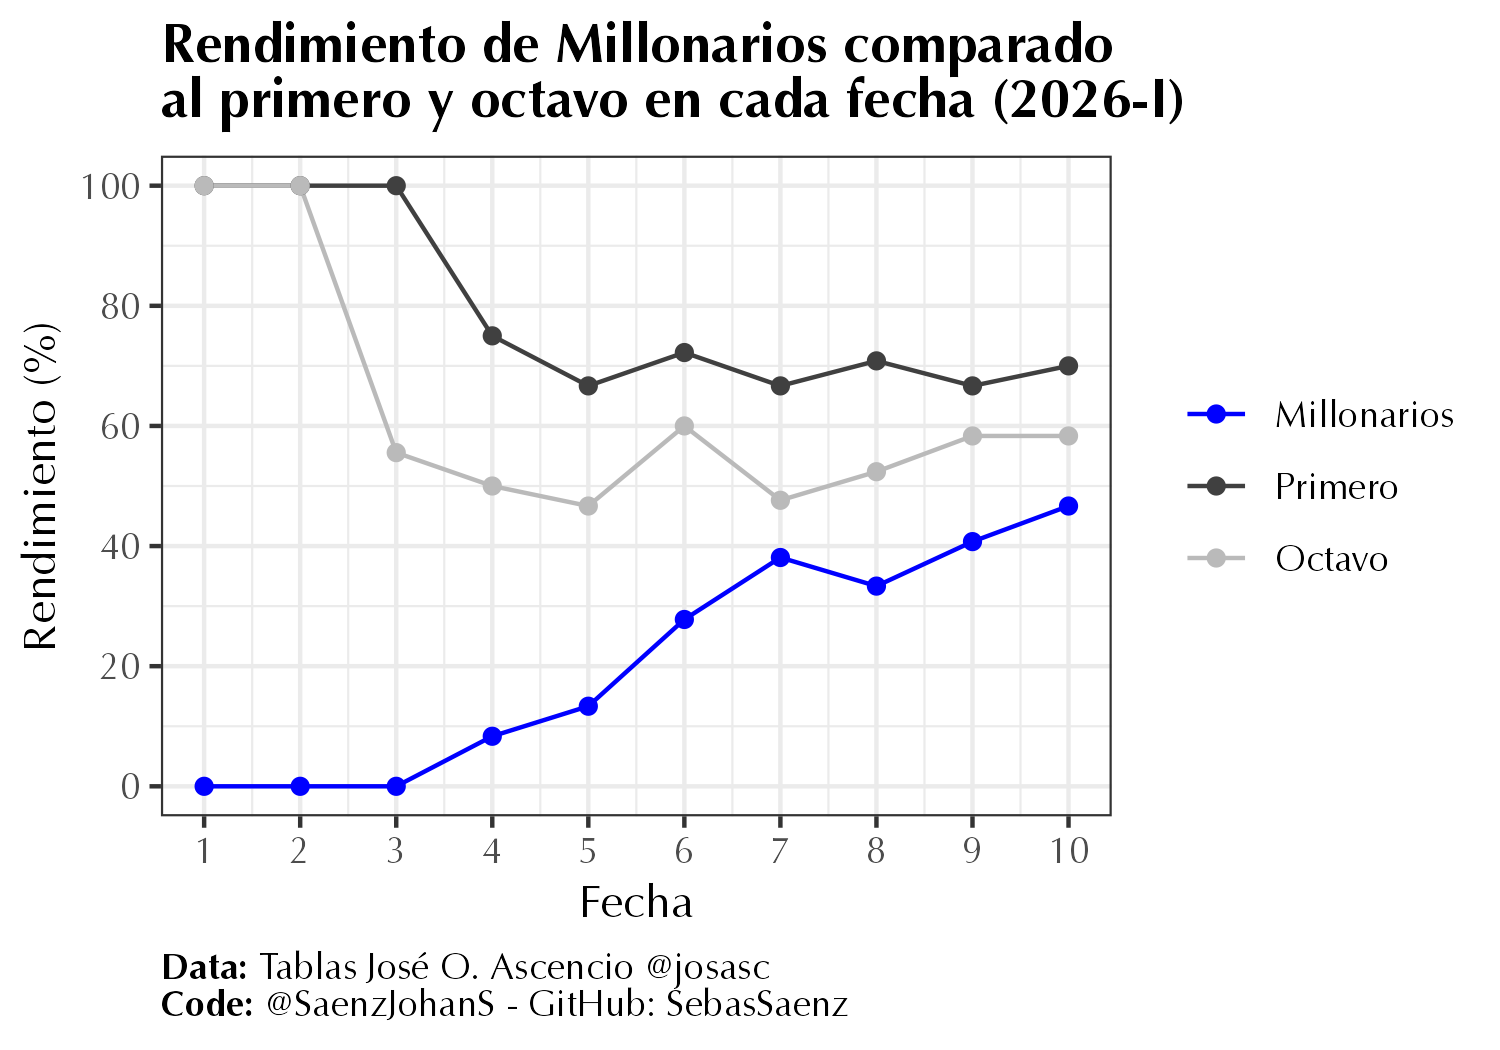
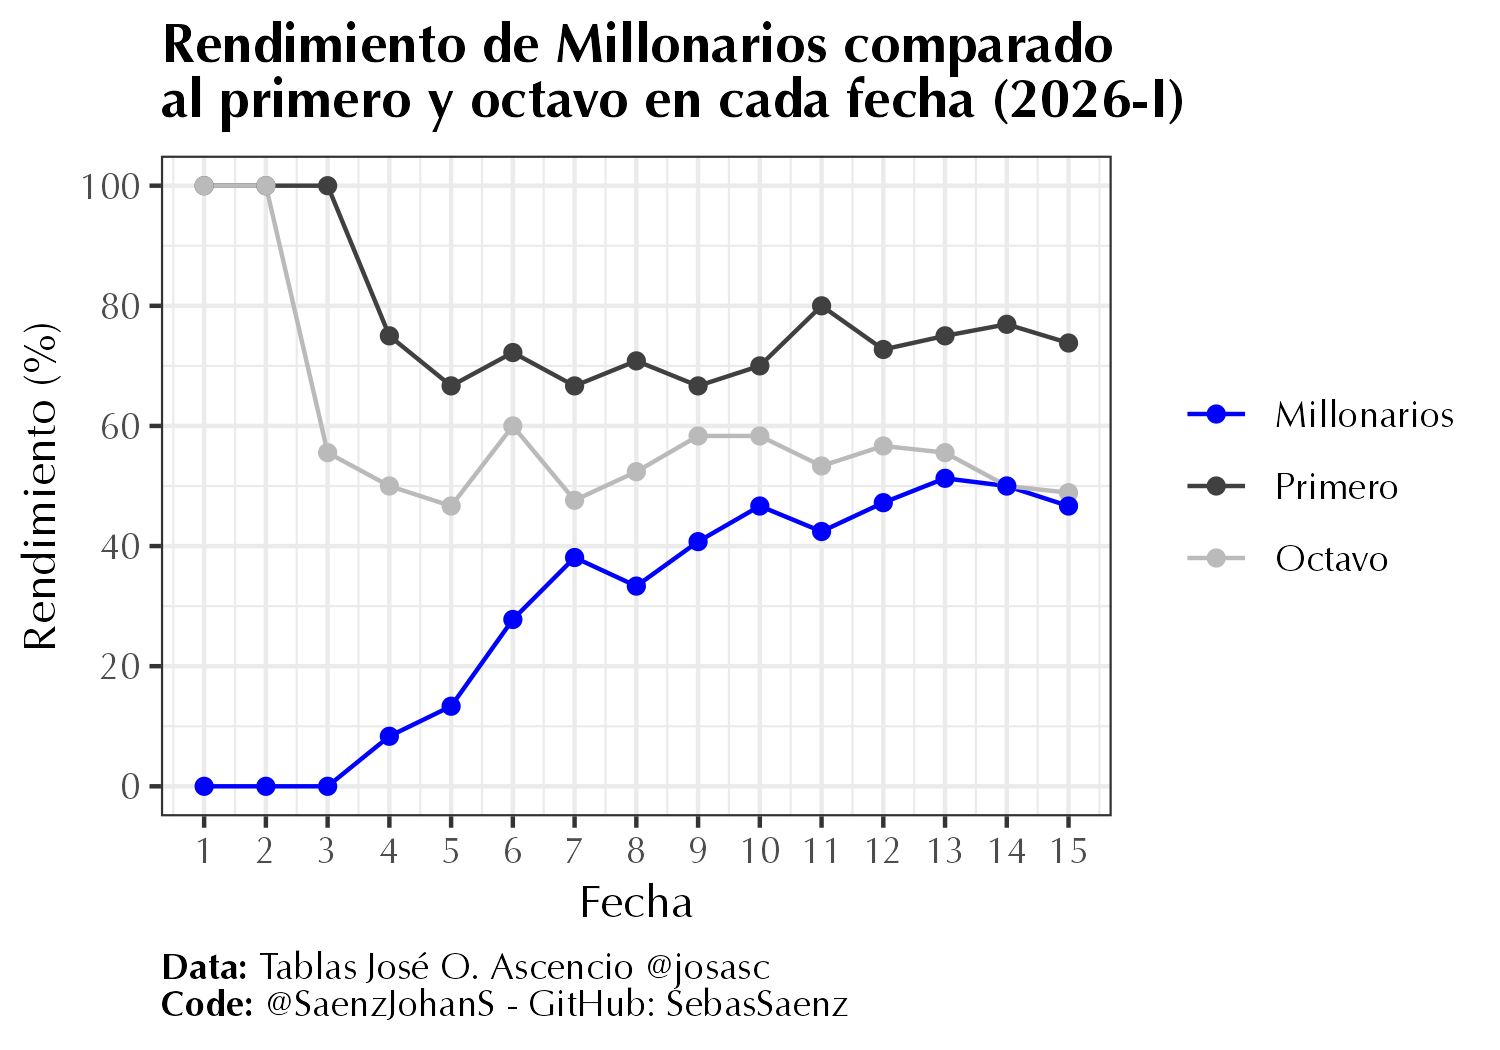
update Millos readme

diff --git a/docs/index.html b/docs/index.html
@@ -28,8 +28,8 @@
 <body>
 <div class="wrap">
   <div class="plotbox">
-    <div class="plotly html-widget html-fill-item" id="htmlwidget-7a8363d0920dba4d01c7" style="width:100%;height:400px;"></div>
-    <script type="application/json" data-for="htmlwidget-7a8363d0920dba4d01c7">{"x":{"data":[{"x":[1,2,3,4,5,6,7,8,9,10],"y":[0,0,0,8.3333333333333321,13.333333333333334,27.777777777777779,38.095238095238095,33.333333333333329,40.74074074074074,46.666666666666664],"text":["Equipo: Millonarios<br>Fecha: 1<br>Rendimiento: 0%","Equipo: Millonarios<br>Fecha: 2<br>Rendimiento: 0%","Equipo: Millonarios<br>Fecha: 3<br>Rendimiento: 0%","Equipo: Millonarios<br>Fecha: 4<br>Rendimiento: 8.3%","Equipo: Millonarios<br>Fecha: 5<br>Rendimiento: 13.3%","Equipo: Millonarios<br>Fecha: 6<br>Rendimiento: 27.8%","Equipo: Millonarios<br>Fecha: 7<br>Rendimiento: 38.1%","Equipo: Millonarios<br>Fecha: 8<br>Rendimiento: 33.3%","Equipo: Millonarios<br>Fecha: 9<br>Rendimiento: 40.7%","Equipo: Millonarios<br>Fecha: 10<br>Rendimiento: 46.7%"],"type":"scatter","mode":"lines+markers","line":{"width":1.8897637795275593,"color":"rgba(0,0,255,1)","dash":"solid"},"hoveron":"points","name":"Millonarios","legendgroup":"Millonarios","showlegend":true,"xaxis":"x","yaxis":"y","hoverinfo":"text","marker":{"autocolorscale":false,"color":"rgba(0,0,255,1)","opacity":1,"size":5.6692913385826778,"symbol":"circle","line":{"width":1.8897637795275593,"color":"rgba(0,0,255,1)"}},"frame":null},{"x":[1,2,3,4,5,6,7,8,9,10],"y":[100,100,100,75,66.666666666666657,72.222222222222214,66.666666666666657,70.833333333333343,66.666666666666657,70],"text":["Equipo: Nacional<br>Fecha: 1<br>Rendimiento: 100%","Equipo: Tolima<br>Fecha: 2<br>Rendimiento: 100%","Equipo: Pasto<br>Fecha: 3<br>Rendimiento: 100%","Equipo: Pasto<br>Fecha: 4<br>Rendimiento: 75%","Equipo: Internacional de Bogota<br>Fecha: 5<br>Rendimiento: 66.7%","Equipo: Internacional de Bogota<br>Fecha: 6<br>Rendimiento: 72.2%","Equipo: Internacional de Bogota<br>Fecha: 7<br>Rendimiento: 66.7%","Equipo: Internacional de Bogota<br>Fecha: 8<br>Rendimiento: 70.8%","Equipo: Internacional de Bogota<br>Fecha: 9<br>Rendimiento: 66.7%","Equipo: Pasto<br>Fecha: 10<br>Rendimiento: 70%"],"type":"scatter","mode":"lines+markers","line":{"width":1.8897637795275593,"color":"rgba(64,64,64,1)","dash":"solid"},"hoveron":"points","name":"Primero","legendgroup":"Primero","showlegend":true,"xaxis":"x","yaxis":"y","hoverinfo":"text","marker":{"autocolorscale":false,"color":"rgba(64,64,64,1)","opacity":1,"size":5.6692913385826778,"symbol":"circle","line":{"width":1.8897637795275593,"color":"rgba(64,64,64,1)"}},"frame":null},{"x":[1,2,3,4,5,6,7,8,9,10],"y":[100,100,55.555555555555557,50,46.666666666666664,60,47.619047619047613,52.380952380952387,58.333333333333336,58.333333333333336],"text":["Equipo: Jaguares<br>Fecha: 1<br>Rendimiento: 100%","Equipo: Nacional<br>Fecha: 2<br>Rendimiento: 100%","Equipo: Fortaleza<br>Fecha: 3<br>Rendimiento: 55.6%","Equipo: Once Caldas<br>Fecha: 4<br>Rendimiento: 50%","Equipo: Cali<br>Fecha: 5<br>Rendimiento: 46.7%","Equipo: Junior<br>Fecha: 6<br>Rendimiento: 60%","Equipo: Once Caldas<br>Fecha: 7<br>Rendimiento: 47.6%","Equipo: Bucaramanga<br>Fecha: 8<br>Rendimiento: 52.4%","Equipo: Bucaramanga<br>Fecha: 9<br>Rendimiento: 58.3%","Equipo: Bucaramanga<br>Fecha: 10<br>Rendimiento: 58.3%"],"type":"scatter","mode":"lines+markers","line":{"width":1.8897637795275593,"color":"rgba(186,186,186,1)","dash":"solid"},"hoveron":"points","name":"Octavo","legendgroup":"Octavo","showlegend":true,"xaxis":"x","yaxis":"y","hoverinfo":"text","marker":{"autocolorscale":false,"color":"rgba(186,186,186,1)","opacity":1,"size":5.6692913385826778,"symbol":"circle","line":{"width":1.8897637795275593,"color":"rgba(186,186,186,1)"}},"frame":null}],"layout":{"margin":{"t":120,"r":10,"b":120,"l":55},"plot_bgcolor":"rgba(255,255,255,1)","paper_bgcolor":"rgba(255,255,255,1)","font":{"color":"rgba(0,0,0,1)","family":"optima","size":14.611872146118724},"title":{"text":"Rendimiento de Millonarios comparado<br>al primero y octavo en cada fecha (2026-I)","font":{"color":"rgba(0,0,0,1)","family":"optima","size":28},"x":0.5,"xref":"paper","xanchor":"center"},"xaxis":{"domain":[0,1],"automargin":true,"type":"linear","autorange":false,"range":[0.55000000000000004,10.449999999999999],"tickmode":"array","ticktext":["1","2","3","4","5","6","7","8","9","10"],"tickvals":[1,2,3,4,5,6,7,7.9999999999999991,9,10],"categoryorder":"array","categoryarray":["1","2","3","4","5","6","7","8","9","10"],"nticks":null,"ticks":"outside","tickcolor":"rgba(51,51,51,1)","ticklen":3.6529680365296811,"tickwidth":0,"showticklabels":true,"tickfont":{"color":"rgba(77,77,77,1)","family":"optima","size":11.68949771689498},"tickangle":-0,"showline":false,"linecolor":null,"linewidth":0,"showgrid":true,"gridcolor":"rgba(235,235,235,1)","gridwidth":0,"zeroline":false,"anchor":"y","title":{"text":"Fecha","font":{"color":"rgba(0,0,0,1)","family":"optima","size":14.611872146118724}},"hoverformat":".2f"},"yaxis":{"domain":[0,1],"automargin":true,"type":"linear","autorange":false,"range":[-5,105],"tickmode":"array","ticktext":["0","20","40","60","80","100"],"tickvals":[0,20,40,60,80,100],"categoryorder":"array","categoryarray":["0","20","40","60","80","100"],"nticks":null,"ticks":"outside","tickcolor":"rgba(51,51,51,1)","ticklen":3.6529680365296811,"tickwidth":0,"showticklabels":true,"tickfont":{"color":"rgba(77,77,77,1)","family":"optima","size":11.68949771689498},"tickangle":-0,"showline":false,"linecolor":null,"linewidth":0,"showgrid":true,"gridcolor":"rgba(235,235,235,1)","gridwidth":0,"zeroline":false,"anchor":"x","title":{"text":"Rendimiento (%)","font":{"color":"rgba(0,0,0,1)","family":"optima","size":14.611872146118724}},"hoverformat":".2f"},"shapes":[{"type":"rect","fillcolor":"rgba(255,255,255,1)","line":{"color":"rgba(51,51,51,1)","width":0,"linetype":"solid"},"yref":"paper","xref":"paper","layer":"below","x0":0,"x1":1,"y0":0,"y1":1}],"showlegend":true,"legend":{"bgcolor":"rgba(255,255,255,1)","bordercolor":"transparent","borderwidth":0,"font":{"color":"rgba(0,0,0,1)","family":"optima","size":12},"title":{"text":[],"font":{"color":null,"family":null,"size":0}}},"hovermode":"closest","barmode":"relative","height":520,"annotations":[{"text":"<b>Data:<\/b> Tablas José O. Ascencio @josasc<br><b>Code:<\/b> @SaenzJohanS - GitHub: SebasSaenz","x":0,"y":-0.29999999999999999,"xref":"paper","yref":"paper","showarrow":false,"xanchor":"left","align":"left","font":{"size":13,"family":"optima"}}]},"config":{"doubleClick":"reset","modeBarButtonsToAdd":["hoverclosest","hovercompare"],"showSendToCloud":false,"responsive":true},"source":"A","attrs":{"228d5ed14b31":{"x":{},"y":{},"colour":{},"text":{},"type":"scatter"},"228d7e9fae98":{"x":{},"y":{},"colour":{},"text":{}}},"cur_data":"228d5ed14b31","visdat":{"228d5ed14b31":["function (y) ","x"],"228d7e9fae98":["function (y) ","x"]},"highlight":{"on":"plotly_click","persistent":false,"dynamic":false,"selectize":false,"opacityDim":0.20000000000000001,"selected":{"opacity":1},"debounce":0},"shinyEvents":["plotly_hover","plotly_click","plotly_selected","plotly_relayout","plotly_brushed","plotly_brushing","plotly_clickannotation","plotly_doubleclick","plotly_deselect","plotly_afterplot","plotly_sunburstclick"],"base_url":"https://plot.ly"},"evals":[],"jsHooks":[]}</script>
+    <div class="plotly html-widget html-fill-item" id="htmlwidget-713fe44a5385dfddfaff" style="width:100%;height:400px;"></div>
+    <script type="application/json" data-for="htmlwidget-713fe44a5385dfddfaff">{"x":{"data":[{"x":[1,2,3,4,5,6,7,8,9,10,11,12,13,14,15],"y":[0,0,0,8.3333333333333321,13.333333333333334,27.777777777777779,38.095238095238095,33.333333333333329,40.74074074074074,46.666666666666664,42.424242424242422,47.222222222222221,51.282051282051277,50,46.666666666666664],"text":["Equipo: Millonarios<br>Fecha: 1<br>Rendimiento: 0%","Equipo: Millonarios<br>Fecha: 2<br>Rendimiento: 0%","Equipo: Millonarios<br>Fecha: 3<br>Rendimiento: 0%","Equipo: Millonarios<br>Fecha: 4<br>Rendimiento: 8.3%","Equipo: Millonarios<br>Fecha: 5<br>Rendimiento: 13.3%","Equipo: Millonarios<br>Fecha: 6<br>Rendimiento: 27.8%","Equipo: Millonarios<br>Fecha: 7<br>Rendimiento: 38.1%","Equipo: Millonarios<br>Fecha: 8<br>Rendimiento: 33.3%","Equipo: Millonarios<br>Fecha: 9<br>Rendimiento: 40.7%","Equipo: Millonarios<br>Fecha: 10<br>Rendimiento: 46.7%","Equipo: Millonarios<br>Fecha: 11<br>Rendimiento: 42.4%","Equipo: Millonarios<br>Fecha: 12<br>Rendimiento: 47.2%","Equipo: Millonarios<br>Fecha: 13<br>Rendimiento: 51.3%","Equipo: Millonarios<br>Fecha: 14<br>Rendimiento: 50%","Equipo: Millonarios<br>Fecha: 15<br>Rendimiento: 46.7%"],"type":"scatter","mode":"lines+markers","line":{"width":1.8897637795275593,"color":"rgba(0,0,255,1)","dash":"solid"},"hoveron":"points","name":"Millonarios","legendgroup":"Millonarios","showlegend":true,"xaxis":"x","yaxis":"y","hoverinfo":"text","marker":{"autocolorscale":false,"color":"rgba(0,0,255,1)","opacity":1,"size":5.6692913385826778,"symbol":"circle","line":{"width":1.8897637795275593,"color":"rgba(0,0,255,1)"}},"frame":null},{"x":[1,2,3,4,5,6,7,8,9,10,11,12,13,14,15],"y":[100,100,100,75,66.666666666666657,72.222222222222214,66.666666666666657,70.833333333333343,66.666666666666657,70,80,72.727272727272734,75,76.923076923076934,73.80952380952381],"text":["Equipo: Nacional<br>Fecha: 1<br>Rendimiento: 100%","Equipo: Tolima<br>Fecha: 2<br>Rendimiento: 100%","Equipo: Pasto<br>Fecha: 3<br>Rendimiento: 100%","Equipo: Pasto<br>Fecha: 4<br>Rendimiento: 75%","Equipo: Internacional de Bogota<br>Fecha: 5<br>Rendimiento: 66.7%","Equipo: Internacional de Bogota<br>Fecha: 6<br>Rendimiento: 72.2%","Equipo: Internacional de Bogota<br>Fecha: 7<br>Rendimiento: 66.7%","Equipo: Internacional de Bogota<br>Fecha: 8<br>Rendimiento: 70.8%","Equipo: Internacional de Bogota<br>Fecha: 9<br>Rendimiento: 66.7%","Equipo: Pasto<br>Fecha: 10<br>Rendimiento: 70%","Equipo: Nacional<br>Fecha: 11<br>Rendimiento: 80%","Equipo: Nacional<br>Fecha: 12<br>Rendimiento: 72.7%","Equipo: Nacional<br>Fecha: 13<br>Rendimiento: 75%","Equipo: Nacional<br>Fecha: 14<br>Rendimiento: 76.9%","Equipo: Nacional<br>Fecha: 15<br>Rendimiento: 73.8%"],"type":"scatter","mode":"lines+markers","line":{"width":1.8897637795275593,"color":"rgba(64,64,64,1)","dash":"solid"},"hoveron":"points","name":"Primero","legendgroup":"Primero","showlegend":true,"xaxis":"x","yaxis":"y","hoverinfo":"text","marker":{"autocolorscale":false,"color":"rgba(64,64,64,1)","opacity":1,"size":5.6692913385826778,"symbol":"circle","line":{"width":1.8897637795275593,"color":"rgba(64,64,64,1)"}},"frame":null},{"x":[1,2,3,4,5,6,7,8,9,10,11,12,13,14,15],"y":[100,100,55.555555555555557,50,46.666666666666664,60,47.619047619047613,52.380952380952387,58.333333333333336,58.333333333333336,53.333333333333336,56.666666666666664,55.555555555555557,50,48.888888888888886],"text":["Equipo: Jaguares<br>Fecha: 1<br>Rendimiento: 100%","Equipo: Nacional<br>Fecha: 2<br>Rendimiento: 100%","Equipo: Fortaleza<br>Fecha: 3<br>Rendimiento: 55.6%","Equipo: Once Caldas<br>Fecha: 4<br>Rendimiento: 50%","Equipo: Cali<br>Fecha: 5<br>Rendimiento: 46.7%","Equipo: Junior<br>Fecha: 6<br>Rendimiento: 60%","Equipo: Once Caldas<br>Fecha: 7<br>Rendimiento: 47.6%","Equipo: Bucaramanga<br>Fecha: 8<br>Rendimiento: 52.4%","Equipo: Bucaramanga<br>Fecha: 9<br>Rendimiento: 58.3%","Equipo: Bucaramanga<br>Fecha: 10<br>Rendimiento: 58.3%","Equipo: Tolima<br>Fecha: 11<br>Rendimiento: 53.3%","Equipo: America<br>Fecha: 12<br>Rendimiento: 56.7%","Equipo: Tolima<br>Fecha: 13<br>Rendimiento: 55.6%","Equipo: Internacional de Bogota<br>Fecha: 14<br>Rendimiento: 50%","Equipo: Internacional de Bogota<br>Fecha: 15<br>Rendimiento: 48.9%"],"type":"scatter","mode":"lines+markers","line":{"width":1.8897637795275593,"color":"rgba(186,186,186,1)","dash":"solid"},"hoveron":"points","name":"Octavo","legendgroup":"Octavo","showlegend":true,"xaxis":"x","yaxis":"y","hoverinfo":"text","marker":{"autocolorscale":false,"color":"rgba(186,186,186,1)","opacity":1,"size":5.6692913385826778,"symbol":"circle","line":{"width":1.8897637795275593,"color":"rgba(186,186,186,1)"}},"frame":null}],"layout":{"margin":{"t":120,"r":10,"b":120,"l":55},"plot_bgcolor":"rgba(255,255,255,1)","paper_bgcolor":"rgba(255,255,255,1)","font":{"color":"rgba(0,0,0,1)","family":"optima","size":14.611872146118724},"title":{"text":"Rendimiento de Millonarios comparado<br>al primero y octavo en cada fecha (2026-I)","font":{"color":"rgba(0,0,0,1)","family":"optima","size":28},"x":0.5,"xref":"paper","xanchor":"center"},"xaxis":{"domain":[0,1],"automargin":true,"type":"linear","autorange":false,"range":[0.29999999999999993,15.699999999999999],"tickmode":"array","ticktext":["1","2","3","4","5","6","7","8","9","10","11","12","13","14","15"],"tickvals":[1,2,3,4,5,6,7,8.0000000000000018,9,10,11,12,13,14,15],"categoryorder":"array","categoryarray":["1","2","3","4","5","6","7","8","9","10","11","12","13","14","15"],"nticks":null,"ticks":"outside","tickcolor":"rgba(51,51,51,1)","ticklen":3.6529680365296811,"tickwidth":0,"showticklabels":true,"tickfont":{"color":"rgba(77,77,77,1)","family":"optima","size":11.689497716894984},"tickangle":-0,"showline":false,"linecolor":null,"linewidth":0,"showgrid":true,"gridcolor":"rgba(235,235,235,1)","gridwidth":0,"zeroline":false,"anchor":"y","title":{"text":"Fecha","font":{"color":"rgba(0,0,0,1)","family":"optima","size":14.611872146118724}},"hoverformat":".2f"},"yaxis":{"domain":[0,1],"automargin":true,"type":"linear","autorange":false,"range":[-5,105],"tickmode":"array","ticktext":["0","20","40","60","80","100"],"tickvals":[0,20,40,60,80,100],"categoryorder":"array","categoryarray":["0","20","40","60","80","100"],"nticks":null,"ticks":"outside","tickcolor":"rgba(51,51,51,1)","ticklen":3.6529680365296811,"tickwidth":0,"showticklabels":true,"tickfont":{"color":"rgba(77,77,77,1)","family":"optima","size":11.68949771689498},"tickangle":-0,"showline":false,"linecolor":null,"linewidth":0,"showgrid":true,"gridcolor":"rgba(235,235,235,1)","gridwidth":0,"zeroline":false,"anchor":"x","title":{"text":"Rendimiento (%)","font":{"color":"rgba(0,0,0,1)","family":"optima","size":14.611872146118724}},"hoverformat":".2f"},"shapes":[{"type":"rect","fillcolor":"rgba(255,255,255,1)","line":{"color":"rgba(51,51,51,1)","width":0,"linetype":"solid"},"yref":"paper","xref":"paper","layer":"below","x0":0,"x1":1,"y0":0,"y1":1}],"showlegend":true,"legend":{"bgcolor":"rgba(255,255,255,1)","bordercolor":"transparent","borderwidth":0,"font":{"color":"rgba(0,0,0,1)","family":"optima","size":12},"title":{"text":[],"font":{"color":null,"family":null,"size":0}}},"hovermode":"closest","barmode":"relative","height":520,"annotations":[{"text":"<b>Data:<\/b> Tablas José O. Ascencio @josasc<br><b>Code:<\/b> @SaenzJohanS - GitHub: SebasSaenz","x":0,"y":-0.29999999999999999,"xref":"paper","yref":"paper","showarrow":false,"xanchor":"left","align":"left","font":{"size":13,"family":"optima"}}]},"config":{"doubleClick":"reset","modeBarButtonsToAdd":["hoverclosest","hovercompare"],"showSendToCloud":false,"responsive":true},"source":"A","attrs":{"aa8077e98025":{"x":{},"y":{},"colour":{},"text":{},"type":"scatter"},"aa802dc3aa4":{"x":{},"y":{},"colour":{},"text":{}}},"cur_data":"aa8077e98025","visdat":{"aa8077e98025":["function (y) ","x"],"aa802dc3aa4":["function (y) ","x"]},"highlight":{"on":"plotly_click","persistent":false,"dynamic":false,"selectize":false,"opacityDim":0.20000000000000001,"selected":{"opacity":1},"debounce":0},"shinyEvents":["plotly_hover","plotly_click","plotly_selected","plotly_relayout","plotly_brushed","plotly_brushing","plotly_clickannotation","plotly_doubleclick","plotly_deselect","plotly_afterplot","plotly_sunburstclick"],"base_url":"https://plot.ly"},"evals":[],"jsHooks":[]}</script>
   </div>
 </div>
 </body>

diff --git a/README.md b/README.md
@@ -1,13 +1,43 @@
 # Millonarios
 
-Plots summarizing the stats from the Colombian football team Millonarios FC
+Graficas y estadisticas del club de futbol mas grande de Colombia.
+
+## Millonarios 2026
+
+### Los 100 mas importantes de Millonarios
+
+Millonarios tiene una larga lista de leyendas
+
+![](plots/100_mejores.png){width="400"}
+
+### Gol de Antología
+
+Rodrigo Contreras marco un gol de casi 60 metros, tan largo que podria cruzar la plaza de Bolívar.
+
+![](plots/gol_contreras.png){width="400"}
+
+### Goleador vamos goleador
+
+Radamel Falcao ha marcado mas de 10 goles con Millonarios, incluidos de cabeza, izquierda y derecha.
+
+![](plots/falcao_goles.png){width="400"}
 
 ## Millonarios 2025
+
+Radamel Falcao esta en la pelea por ser el goleador historico colombiano.
+
+![](plots/falao_dayro.gif)
+
+### Quíen merece ser el arquero de la seleción Colombia?
+
+![](plots/arqueros_selecion.png){width="300"}
 
 ### Minutos jugados por convocatoria
 
 <img src="plots/minutos_jugados_2025.png" width="40%" height="30%"/>
 
-### Contrataciones
+### Contrataciones de papel
+
+Para el segundo semestre de 2025 Millonarios solo contrato refuerzos a la baja.
 
 <img src="plots/contrataciones_2025.png" width="40%" height="30%"/>
